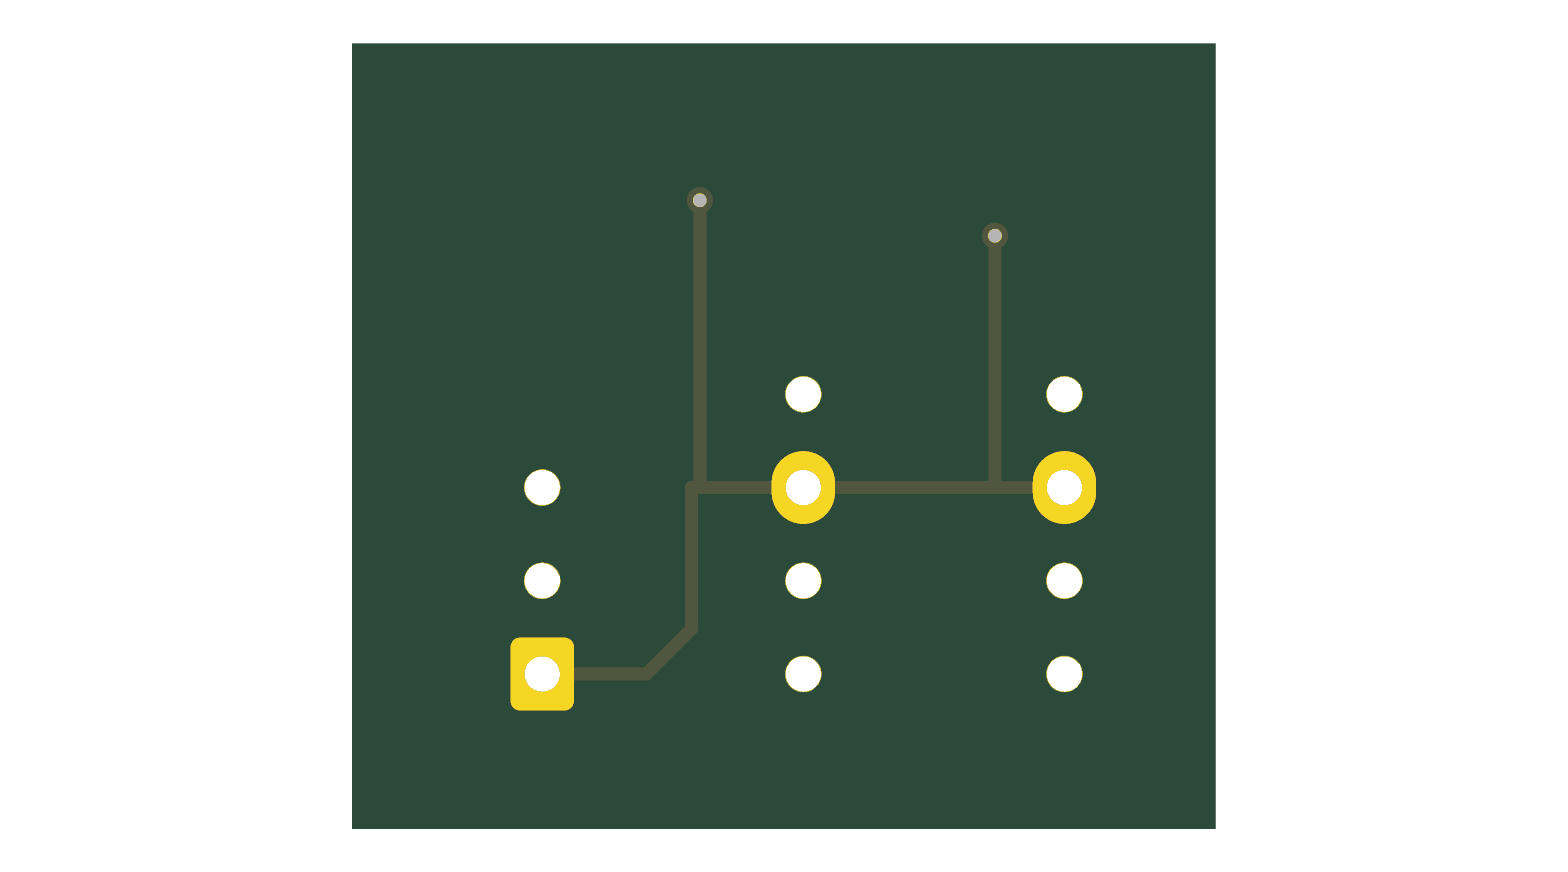
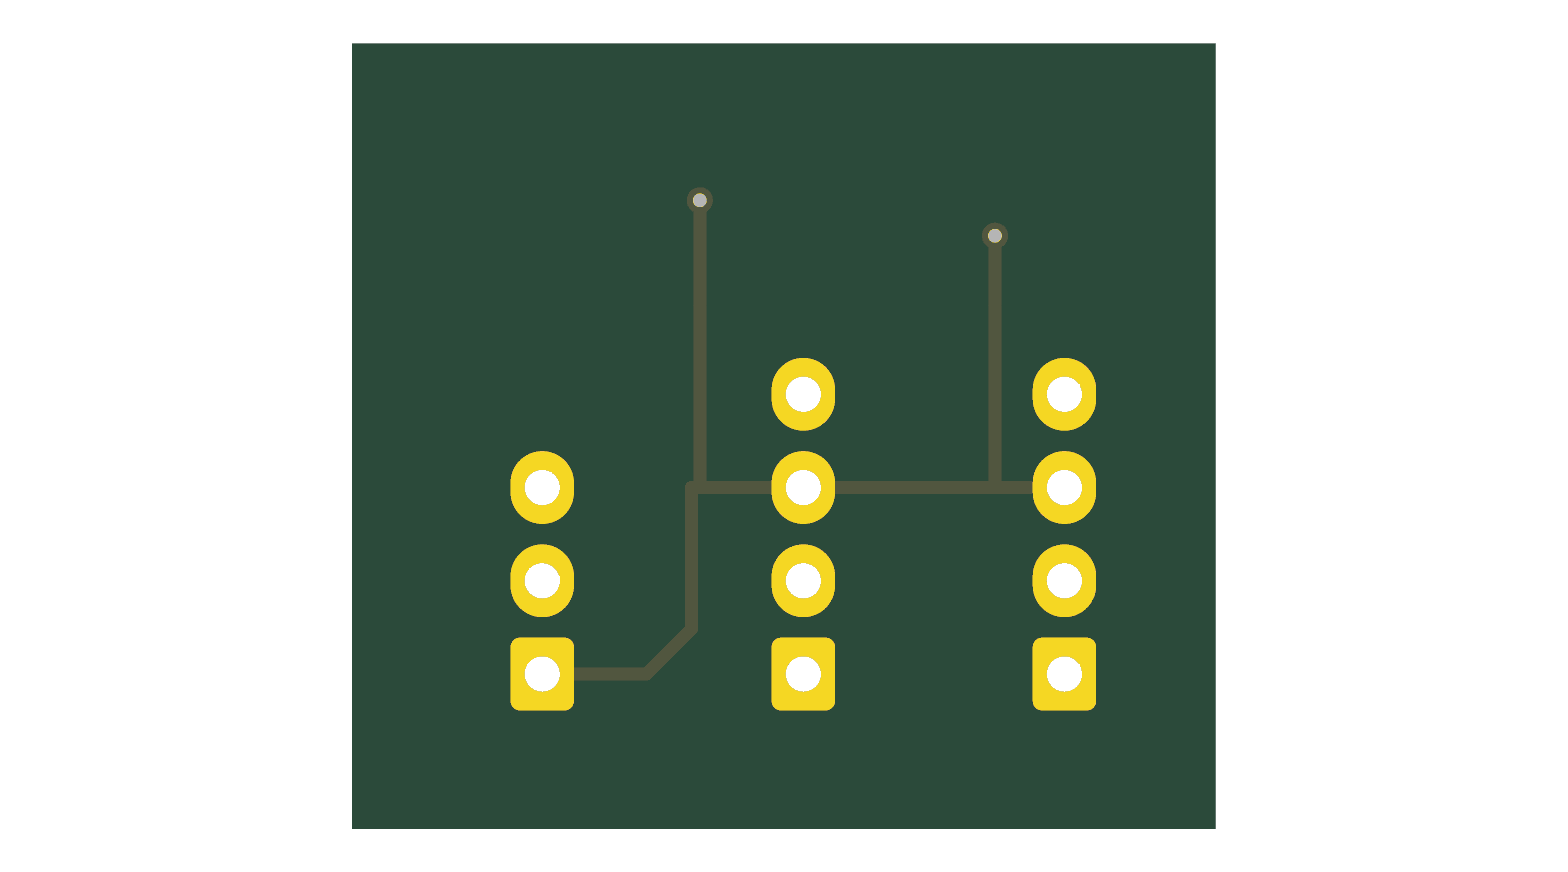
fix(06-015): make flow-tap JST pads solderable from the bottom (#73)
* fix(06-015): make flow-tap JST pads solderable from the bottom

The generated flow-tap.kicad_pcb carried a bare (remove_unused_layers) on all 11
THT JST pads, which KiCad reads as ENABLED. On this 2-layer board that strips the
BOTTOM annular ring from every JST pin routed on a single layer (all signal/power
pins) -> those pads are unsolderable from the bottom (the vertical JST housing
blocks the top pads). Root cause: kiutils misreads the footprints'
(remove_unused_layers no) as True and re-emits it bare on round-trip.

- flow-tap.kicad_pcb: restore (remove_unused_layers no) on the 11 THT pads. Board
  is otherwise byte-identical to the fabricated version (no layout change) — a
  minimal patch, not a regen (the current script has drifted to a larger outline).
- generate_pcb.py: post-write fixup so future regenerations keep the token correct.

Gerbers NOT re-exported here (no kicad-cli / Docker this session). Re-export
before re-fab per README: kicad-cli pcb export gerbers + drill.

Claude-Session: https://claude.ai/code/session_01AUJaWoFvk7o67BbqxkQiE3

* fix(flow-tap): regenerate gerbers with bottom-solderable JST pads

Regenerated the fab package from the fixed board (remove_unused_layers no
on all 11 THT pads) using kicad-cli 9.0. Bottom copper now carries annular
rings for every JST through-hole pin, so the vertical connectors are
solderable from the bottom as intended. DRC clean (0 violations, 0
[…]

diff --git a/06-coffee-espresso/_reference/flow-tap-pcb/generate_pcb.py b/06-coffee-espresso/_reference/flow-tap-pcb/generate_pcb.py
@@ -158,4 +158,21 @@ for a, b in zip(corners, corners[1:]+corners[:1]):
                                       layer="Edge.Cuts", width=0.15, tstamp=uid()))
 
 board.to_file(OUT)
+
+# --- Fix kiutils round-trip of (remove_unused_layers no) ----------------------
+# The stock JST/THT footprints carry `(remove_unused_layers no)` — copper kept on
+# BOTH sides so the vertical connectors are solderable from the bottom. kiutils
+# misreads the "no" (treats the token's presence as True) and re-emits a bare
+# `(remove_unused_layers)`, which KiCad reads as ENABLED. On this 2-layer board
+# that strips the BOTTOM annular ring from every THT pin routed on a single layer
+# (all JST signal/power pins) → those pads become unsolderable from the bottom
+# (vertical housing blocks the top). Restore the footprint's intent explicitly.
+with open(OUT) as _f:
+    _txt = _f.read()
+_n = _txt.count("(remove_unused_layers)")
+if _n:
+    with open(OUT, "w") as _f:
+        _f.write(_txt.replace("(remove_unused_layers)", "(remove_unused_layers no)"))
+    print(f"  fixup: restored (remove_unused_layers no) on {_n} THT pad(s)")
+
 print(f"saved {OUT}: outline {x1-x0:.1f} x {y1-y0:.1f} mm = {(x1-x0)*(y1-y0):.0f} mm^2")
